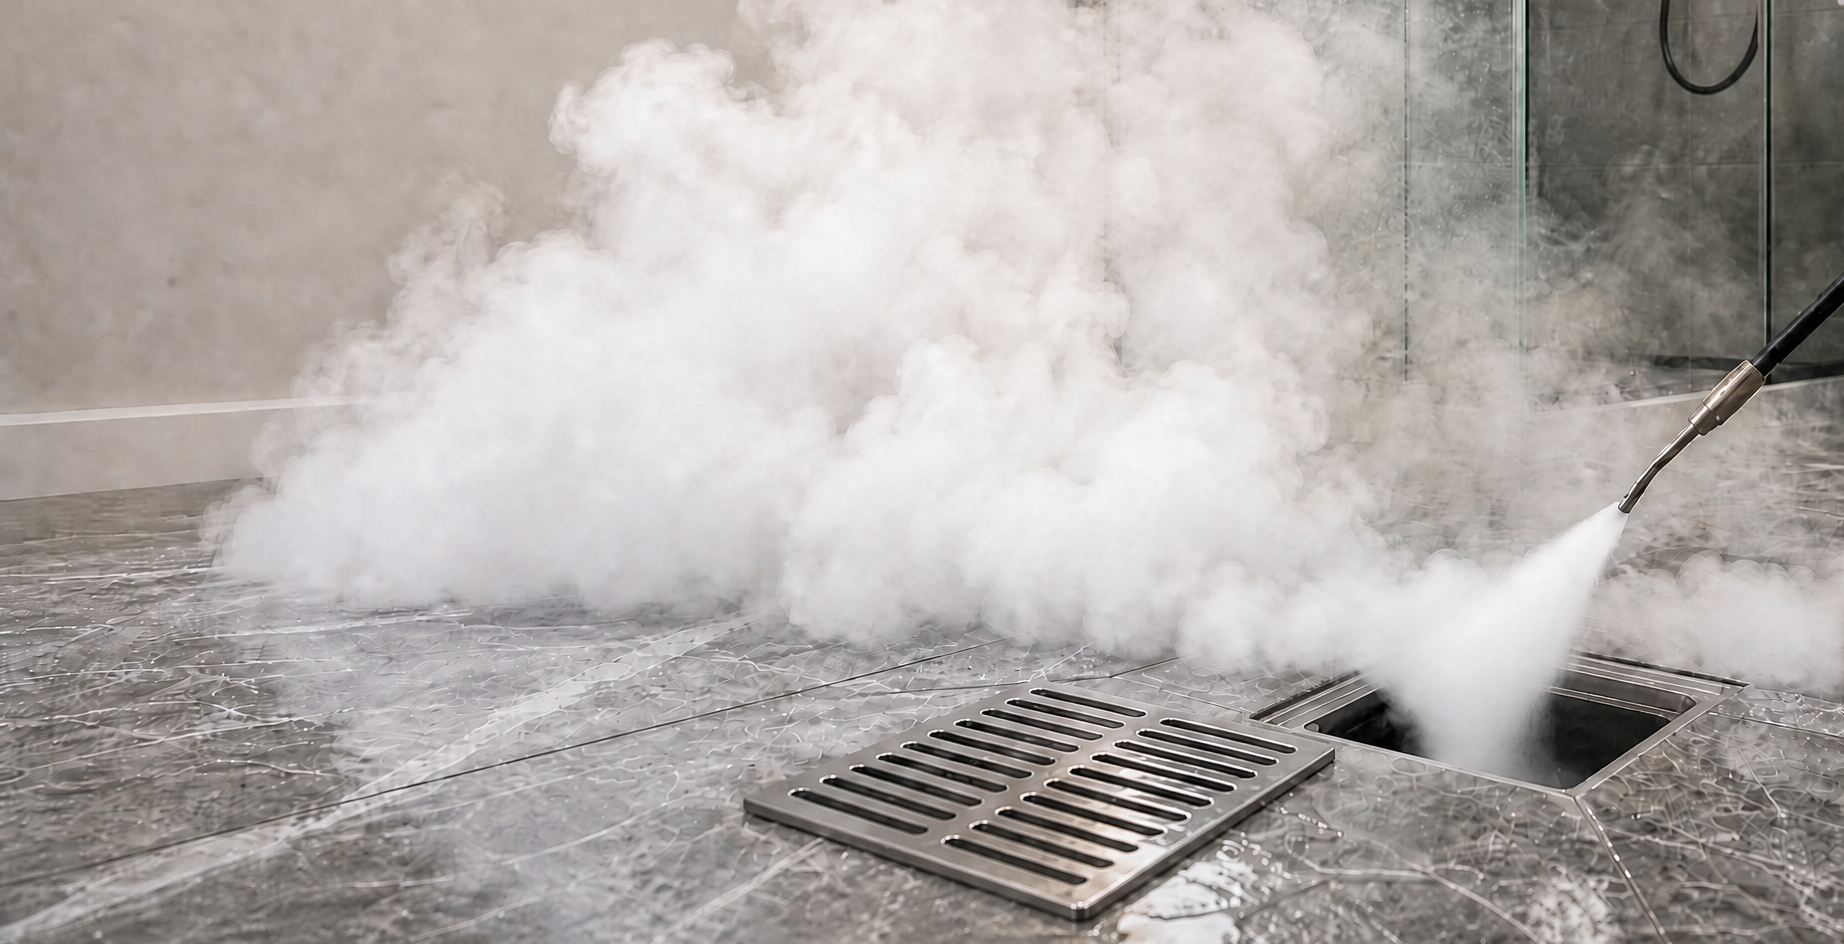
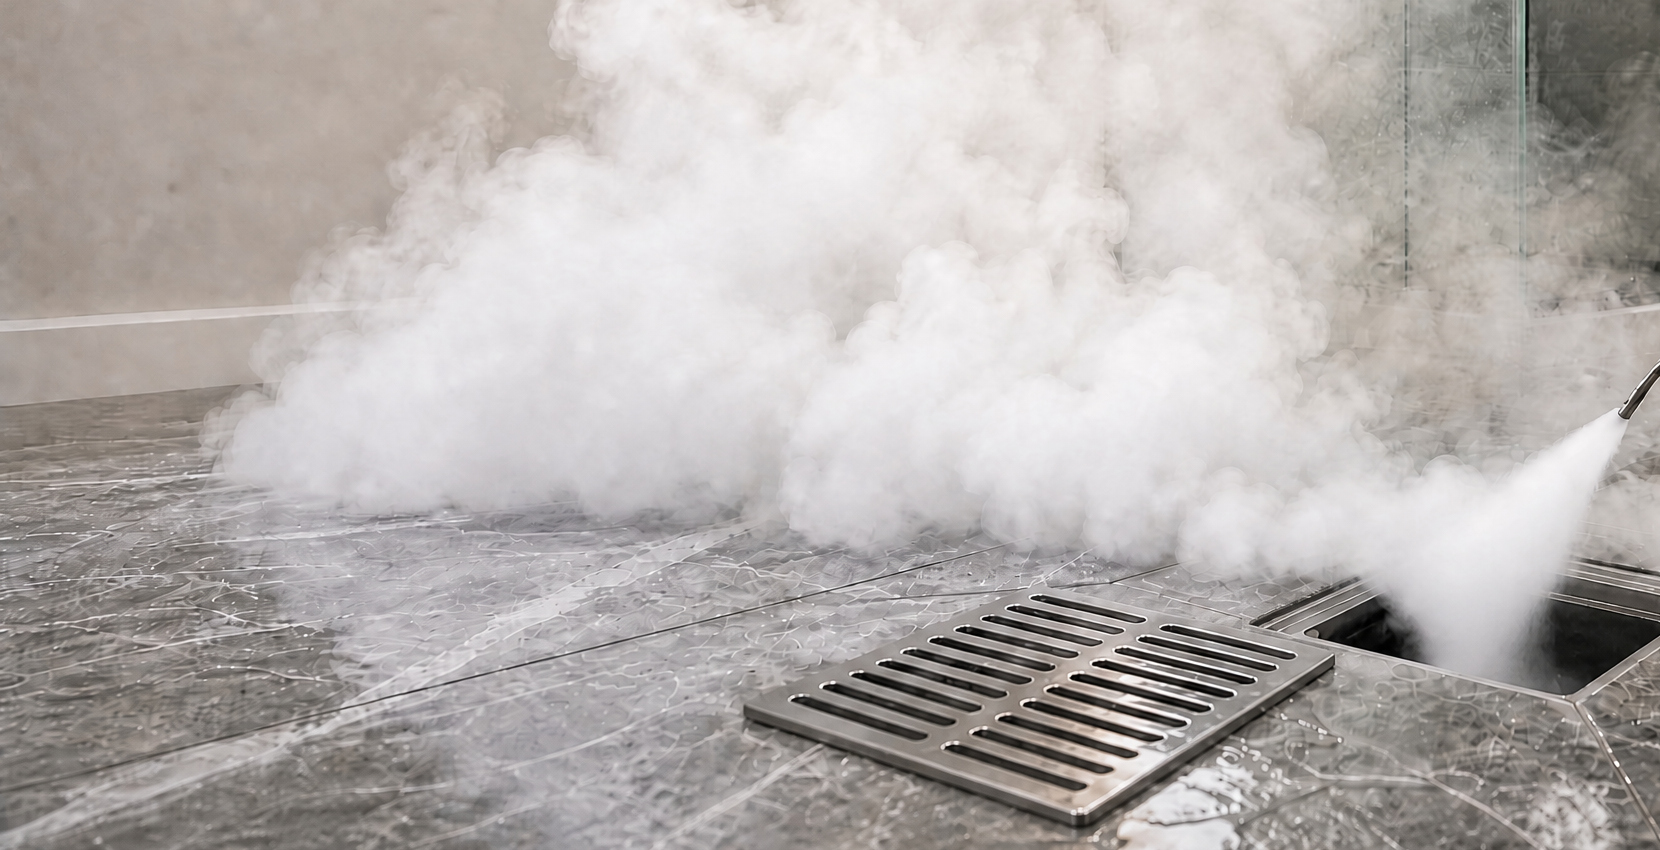
히어로 배너 이미지 상단 10%, 우측 10% 추가 크롭 (2차)

diff --git a/app/globals.css b/app/globals.css
@@ -343,7 +343,7 @@
 .quote-indent{display:inline-block;padding-left:2.6em}
 .hero-banner{display:none}
 @media(min-width:761px){
-  .hero-banner{display:block;width:100%;aspect-ratio:1844/944;overflow:hidden;margin:0;position:relative}
+  .hero-banner{display:block;width:100%;aspect-ratio:1660/850;overflow:hidden;margin:0;position:relative}
   .hero-banner img{width:100%;height:100%;object-fit:cover;display:block;object-position:center center}
   .hero-banner figcaption{position:absolute;left:0;bottom:0;min-width:210px;padding:24px 30px;background:var(--deep);color:#fff;display:flex;flex-direction:column;gap:7px}
   .hero-banner figcaption b{font-family:"MaruBuri","Noto Serif KR",serif;font-size:22px;font-weight:600}
